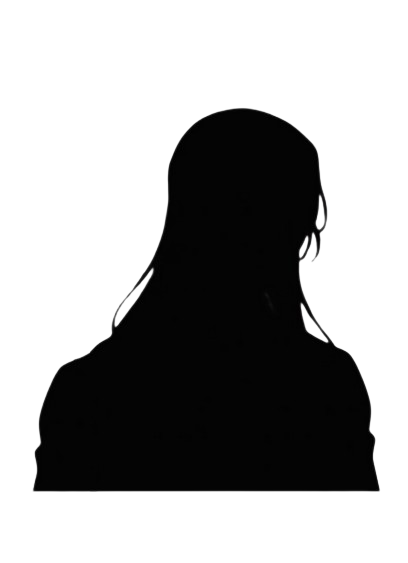
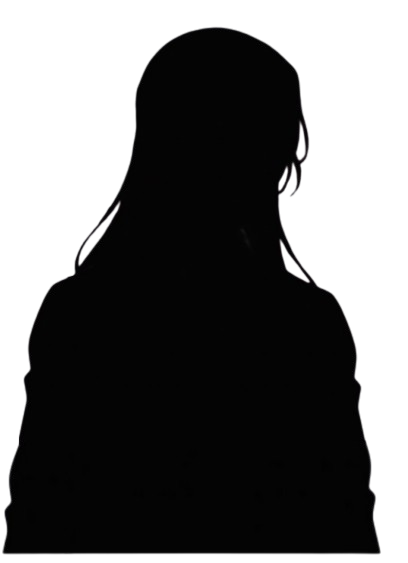
att

Changed region(s): [[0.0, 0.0302, 0.9412, 0.9964]]

diff --git a/css/style.css b/css/style.css
@@ -34,7 +34,7 @@ body {
 
 .character {
     position: absolute;
-    bottom: -60px;
+    bottom: -110px; 
     width: auto;
     height: 85vh;
 
@@ -62,7 +62,7 @@ body {
 
 #speech-bubble {
     position: absolute;
-    top: 15%;
+    top: 25%;
     max-width: 300px;
     font-size: 14px;
     background: rgba(255, 255, 255, 0.35);
@@ -79,7 +79,7 @@ body {
 }
 
 .bubble-right {
-  left: 58%;
+  left: 44%;
 }
 
 .bubble-left {
@@ -230,12 +230,12 @@ body {
 
 @media (max-width: 480px) {
   .character {
-    height: 58vh;
-    bottom: -20px;
+    height: 38vh;
+    bottom: -30px;
   }
 
   #lucien {
-    left: 60%;
+    left: 70%;
   }
 
   #elias {
@@ -255,7 +255,7 @@ body {
   #speech-bubble {
     max-width: 210px;
     font-size: 12px;
-    top: 10%;
+    top: 56%;
   }
 }
 
